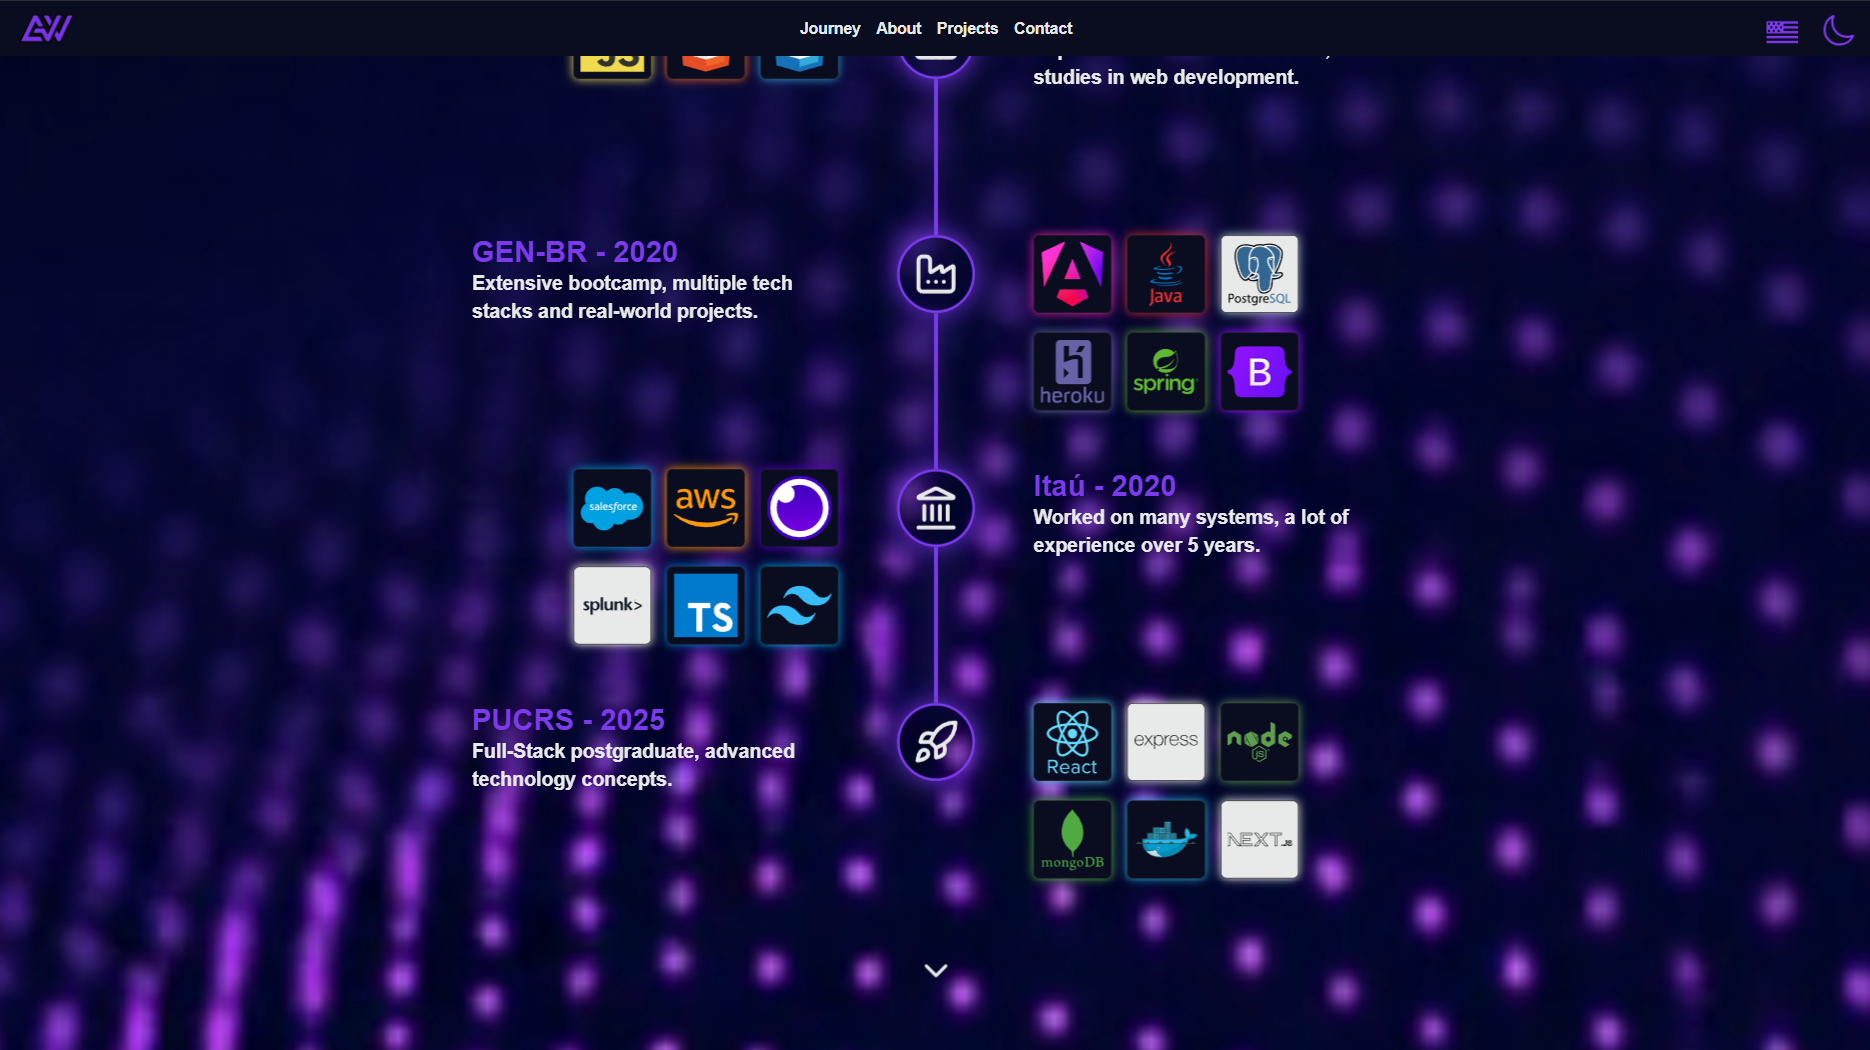
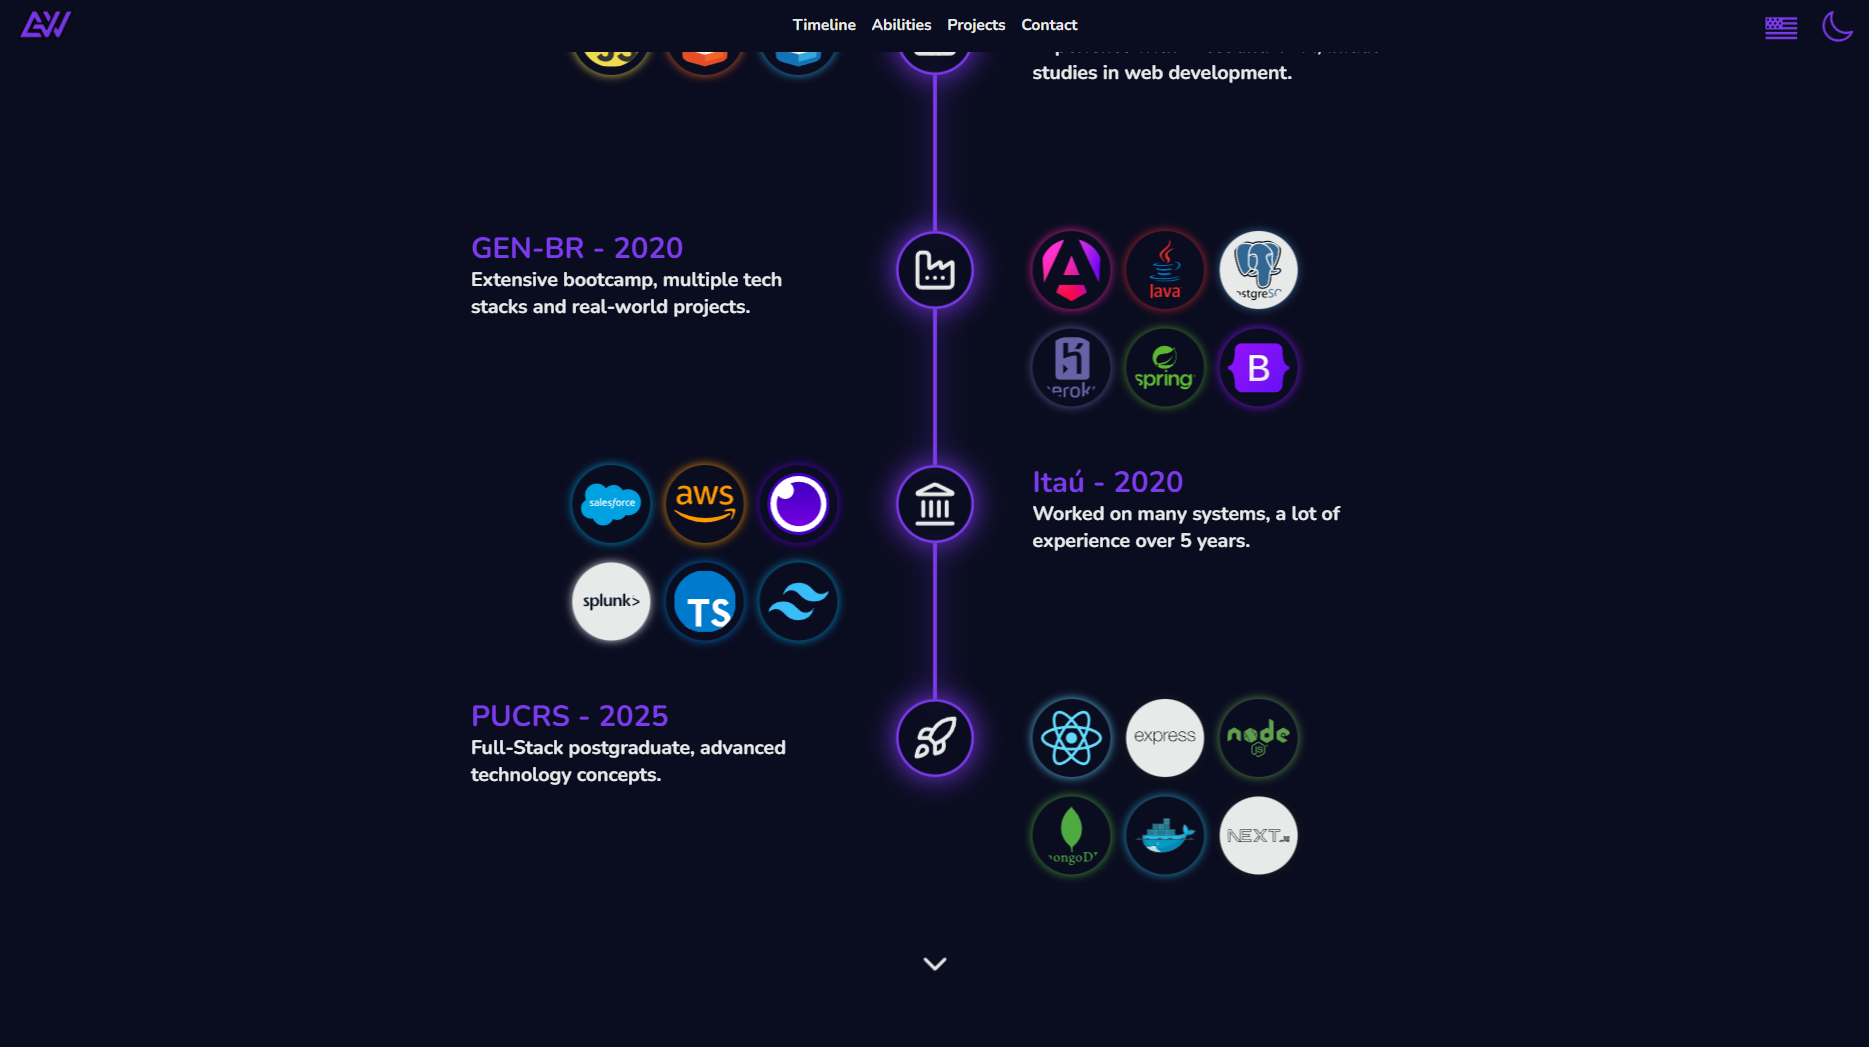
new port project imgs

diff --git a/src/components/Project/Project.tsx b/src/components/Project/Project.tsx
@@ -688,7 +688,7 @@ export default function Projects() {
 
               {/* Main image */}
               <div
-                className=" border-yellow-500 scale absolute bottom-10 mb-10 h-[75svh] w-[77dvw] sm:h-[78svh] sm:w-[420px] sm:text-text rounded-3xl bg-cover bg-top shadow-[0_0_40px_#7C3AED] white:shadow-[0_0_20px_#6594fc] cursor-pointer"
+                className="border-yellow-500 scale absolute bottom-10 mb-10 h-[77svh] w-[77dvw] sm:h-[78svh] sm:w-[420px] sm:text-text rounded-3xl bg-cover bg-top shadow-[0_0_40px_#7C3AED] white:shadow-[0_0_20px_#6594fc] cursor-pointer"
                 style={{ backgroundImage: `url(${s.images.mobile[0]})` }}>
 
                 <div className="absolute border-black bottom-0 left-0 w-full rounded-b-2xl h-[100svh] bg-[linear-gradient(to_top,#111_27%,transparent_60%)] sm:bg-[linear-gradient(to_top,#111_27%,transparent_60%)]">
@@ -808,7 +808,7 @@ export default function Projects() {
         data-aos="fade-right"
         data-aos-offset="0"
         onClick={prev}
-        className="absolute top-1/2 -translate-y- left-6 sm:left-30 sm:text-4xl bg-white/30 w-10 h-10 sm:w-25 sm:h-25 border border-text white:border-dark-gray rounded-full flex justify-center items-center cursor-pointer"
+        className="absolute top-1/2 -translate-y- left-2 sm:left-30 sm:text-4xl bg-white/30 w-15 h-15 sm:w-25 sm:h-25 border border-text white:border-dark-gray rounded-full flex justify-center items-center cursor-pointer"
       >
         ‹
       </button>
@@ -816,7 +816,7 @@ export default function Projects() {
         data-aos="fade-left"
         data-aos-offset="0"
         onClick={next}
-        className="absolute top-1/2 -translate-y- right-2 sm:right-30 sm:text-4xl bg-white/30 w-10 h-10 sm:w-25 sm:h-25 border border-text white:border-dark-gray rounded-full flex justify-center items-center cursor-pointer"
+        className="absolute top-1/2 -translate-y- right-2 sm:right-30 sm:text-4xl bg-white/30 w-15 h-15 sm:w-25 sm:h-25 border border-text white:border-dark-gray rounded-full flex justify-center items-center cursor-pointer"
       >
         ›
       </button>
@@ -838,7 +838,7 @@ export default function Projects() {
       {showModal && (
         <div className="flex sm:hidden absolute inset-0 items-center justify-center z-9999">
           <div
-            className="absolute inset-0 bg-black/70 backdrop-blur-md animate-fadeIn"
+            className="absolute inset-0 bg-black/10 backdrop-blur-md animate-fadeIn"
             onClick={() => setShowModal(false)}
           />
 
@@ -867,14 +867,14 @@ export default function Projects() {
               <>
                 <button
                   onClick={prevModal}
-                  className="absolute left-[-30px] sm:left-[-70px] top-1/2 -translate-y-1/2 bg-white/30 w-10 h-10 sm:w-15 sm:h-15 rounded-full border border-text white:border-text-dark flex justify-center items-center z-100 cursor-pointer"
+                  className="absolute left-[-40px] sm:left-[-70px] top-1/2 -translate-y-1/2 bg-white/30 w-15 h-15 sm:w-15 sm:h-15 rounded-full border border-text white:border-text-dark flex justify-center items-center z-100 cursor-pointer"
                 >
                   ‹
                 </button>
 
                 <button
                   onClick={nextModal}
-                  className="absolute right-[-30px] sm:right-[-70px] top-1/2 -translate-y-1/2 bg-white/30 w-10 h-10 sm:w-15 sm:h-15 rounded-full border border-text white:border-text-dark flex justify-center items-center z-100 cursor-pointer"
+                  className="absolute right-[-40px] sm:right-[-70px] top-1/2 -translate-y-1/2 bg-white/30 w-15 h-15 sm:w-15 sm:h-15 rounded-full border border-text white:border-text-dark flex justify-center items-center z-100 cursor-pointer"
                 >
                   ›
                 </button>
@@ -891,7 +891,7 @@ export default function Projects() {
       {showModal && (
         <div className="hidden sm:flex  absolute inset-0 items-center justify-center z-9999">
           <div
-            className="absolute border-yellow-300 inset-0 bg-black/70 backdrop-blur-md animate-fadeIn"
+            className="absolute border-yellow-300 inset-0 bg-black/10 backdrop-blur-md animate-fadeIn"
             onClick={() => setShowModal(false)}
           />
 
@@ -944,7 +944,7 @@ export default function Projects() {
       {showModalDetails2 && (
         <div className="absolute inset-0 flex items-center justify-center z-9999">
           <div
-            className="absolute inset-0 bg-black/70 backdrop-blur-md animate-fadeIn"
+            className="absolute inset-0 bg-black/10 backdrop-blur-md animate-fadeIn"
             onClick={() => setShowModalDetails2(false)}
           />
           <div className="border-blue-500 relative rounded-3xl text-sm max-h-[80svh] w-[77dvw] sm:w-[460px] bg-background white:bg-text flex flex-col items-center justify-start px-8 py-10 animate-zoomIn ">
@@ -999,7 +999,7 @@ export default function Projects() {
           <div className="absolute border-red-500 inset-0 flex items-center justify-center z-9999">
 
             <div
-              className="absolute inset-0 bg-black/70 backdrop-blur-md animate-fadeIn"
+              className="absolute inset-0 bg-black/10 backdrop-blur-md animate-fadeIn"
               onClick={() => setShowModalImportant(false)}
             />
 

diff --git a/src/components/Abilites/Abilites.tsx b/src/components/Abilites/Abilites.tsx
@@ -137,11 +137,11 @@ function Abilites() {
               </div>
               <p className="">{t("abilities.tools.text")}</p>
               <ul className="font-bold list-disc ml-6">
-                <li className="mb-2">{t("abilities.tools.item1")} <span className="rounded-full px-2  text-[12px] sm:text-[18px]  bg-[#00a1e0]">react</span>  <span className="rounded-full px-2  text-[12px] sm:text-[18px]   bg-red-700">angular</span>  <span className="bg-blue-700 rounded-full px-2  text-[12px] sm:text-[18px]   ">lwc</span></li>
-                <li className="mb-2">{t("abilities.tools.item2")} <span className="bg-green-500 rounded-full px-2  text-[12px] sm:text-[18px]   ">node</span>  <span className="bg-red-700 rounded-full px-2  text-[12px] sm:text-[18px]   ">java</span>  <span className="bg-blue-500 rounded-full px-2  text-[12px] sm:text-[18px]   ">apex</span></li>
-                <li className="mb-2">{t("abilities.tools.item3")} <span className="bg-green-500 rounded-full px-2  text-[12px] sm:text-[18px]   ">mongo</span>  <span className="bg-blue-400 rounded-full px-2  text-[12px] sm:text-[18px]   ">postgre</span>  <span className="bg-blue-500  rounded-full px-2  text-[12px] sm:text-[18px]   ">soql</span></li>
-                <li className="mb-2">{t("abilities.tools.item4")} <span className="bg-gray-700  rounded-full px-2  text-[12px] sm:text-[18px]   ">github</span>  <span className="bg-gray-900  rounded-full px-2  text-[12px] sm:text-[18px]   ">vercel</span>  <span className="bg-green-400  rounded-full px-2  text-[12px] sm:text-[18px]   ">netlify</span></li>
-                <li className="">{t("abilities.tools.item5")} <span className="bg-orange-500  rounded-full px-2  text-[12px] sm:text-[18px]   ">aws</span>  <span className="bg-blue-700  rounded-full px-2  text-[12px] sm:text-[18px]   ">docker</span>  <span className="bg-purple-700  rounded-full px-2  text-[12px] sm:text-[18px]   ">insomnia</span></li>
+                <li className="mb-2">{t("abilities.tools.item1")} <span className="rounded-full white:text-text px-2  text-[12px] sm:text-[18px]  bg-[#00a1e0]">react</span>  <span className="rounded-full white:text-text px-2  text-[12px] sm:text-[18px]   bg-red-700">angular</span>  <span className="bg-blue-700 rounded-full white:text-text px-2  text-[12px] sm:text-[18px]   ">lwc</span></li>
+                <li className="mb-2">{t("abilities.tools.item2")} <span className="bg-green-500 rounded-full white:text-text px-2  text-[12px] sm:text-[18px]   ">node</span>  <span className="bg-red-700 rounded-full white:text-text px-2  text-[12px] sm:text-[18px]   ">java</span>  <span className="bg-blue-500 rounded-full white:text-text px-2  text-[12px] sm:text-[18px]   ">apex</span></li>
+                <li className="mb-2">{t("abilities.tools.item3")} <span className="bg-green-500 rounded-full white:text-text px-2  text-[12px] sm:text-[18px]   ">mongo</span>  <span className="bg-blue-400 rounded-full white:text-text px-2  text-[12px] sm:text-[18px]   ">postgre</span>  <span className="bg-blue-500  rounded-full white:text-text px-2  text-[12px] sm:text-[18px]   ">soql</span></li>
+                <li className="mb-2">{t("abilities.tools.item4")} <span className="bg-gray-700  rounded-full white:text-text px-2  text-[12px] sm:text-[18px]   ">github</span>  <span className="bg-gray-900  rounded-full white:text-text px-2  text-[12px] sm:text-[18px]   ">vercel</span>  <span className="bg-green-400  rounded-full white:text-text px-2  text-[12px] sm:text-[18px]   ">netlify</span></li>
+                <li className="">{t("abilities.tools.item5")} <span className="bg-orange-500  rounded-full white:text-text px-2  text-[12px] sm:text-[18px]   ">aws</span>  <span className="bg-blue-700  rounded-full white:text-text px-2  text-[12px] sm:text-[18px]   ">docker</span>  <span className="bg-purple-700  rounded-full white:text-text px-2  text-[12px] sm:text-[18px]   ">insomnia</span></li>
               </ul>
             </div>
 

diff --git a/src/components/Home/Home.tsx b/src/components/Home/Home.tsx
@@ -138,7 +138,7 @@ function Hero({ theme }: HeroProps) {
               data-aos="fade-in" data-aos-duration="3000" data-aos-offset="-500" data-aos-delay="0">
 
 
-              {/* TEXT DESKTOP AND MOBILE*/}
+              {/* WELCOME DESKTOP AND MOBILE*/}
               <div className='relative sm:ml-15 sm:mt-15 flex flex-col items-start justify-start '>
                 <h1 data-aos="fade-in" data-aos-duration="3000" data-aos-delay="0" className="text-2xl sm:text-4xl mt-15 sm:mt-0">{t("home.welcome")}</h1>
                 {/* MY SIGNATURE*/}
@@ -228,7 +228,7 @@ function Hero({ theme }: HeroProps) {
 
             </div> */}
 
-            {/*3 FRASES DESKTOP  */}
+            {/*3 FRASES MOBILE  */}
             <div className='sm:hidden text-sm mt-5 w-80 ml-10 '>
 
               <div data-aos="fade-left" data-aos-duration="2000" data-aos-delay="800" className='flex items-center justify-start mb-3 border-accent'>
@@ -280,7 +280,7 @@ function Hero({ theme }: HeroProps) {
             <div className="card-home flex absolute bottom-0 left-[-45px] sm:hidden ">
               <div data-aos="fade-in" data-aos-duration="2000" data-aos-offset="0" data-aos-delay="2000" className="flex w-110 sm:w-190 h-70 sm:h-120 clip-hex justify-end items-center">
                 <img data-aos="fade-right" data-aos-duration="2000" data-aos-offset="-500" data-aos-delay="2800" className="absolute rounded-3xl bottom-0 left-10 w-90 sm:w-150" src={bg} />
-                <div className='absolute top-0 right-0 w-90 h-full bg-[linear-gradient(to_left,#381f70_25%,transparent_70%)] white:bg-[linear-gradient(to_left,#162c9c_35%,transparent_80%)] z-200 '>
+                <div className='absolute top-0 right-0 w-90 h-full bg-[linear-gradient(to_left,#381f70_25%,transparent_70%)] white:bg-[linear-gradient(to_left,#243fc7_35%,transparent_80%)] z-200 '>
                   <h5 data-aos="zoom-in" data-aos-duration="2000" data-aos-offset="0" data-aos-delay="2800" className="absolute top-8 sm:top-25 left-50 border-blue-500 text-sm sm:text-3xl sm:w-80 white:text-text w-33">
                     {t("home.text")}</h5>
                   <div className='absolute top-20 left-50 text-xs white:text-text'

diff --git a/src/components/Journey/Journey.tsx b/src/components/Journey/Journey.tsx
@@ -105,14 +105,14 @@ function Journey() {
                         </div>
                         <div className='w-50 h-40 sm:h-60 border-orange-500 flex flex-col justify-start items-center'>
                             <div data-aos="fade-up" className='h-9 w-9 sm:h-20 sm:w-20 border-3 border-accent hover:bg-accent white:hover:bg-light-blue  transition duration-300 ease-in-out white:border-light-blue shadow-[0_0_30px_#7C3AED] white:shadow-[0_0_30px_#6594fc] rounded-full flex justify-center items-center'>
-                                <University className='sm:h-12 sm:w-12' />
+                                <Factory className='sm:h-12 sm:w-12' />
                             </div>
                             <div data-aos="fade-up" className='w-1 h-31 sm:h-40 bg-accent white:bg-light-blue shadow-[0_0_30px_#7C3AED] white:shadow-[0_0_30px_#6594fc] transition'>
                             </div>
                         </div>
                         <div className='w-50 h-40 sm:h-60 border-orange-500 flex flex-col justify-start items-center'>
                             <div data-aos="fade-up" className='h-9 w-9 sm:h-20 sm:w-20 border-3 border-accent hover:bg-accent white:hover:bg-light-blue  transition duration-300 ease-in-out white:border-light-blue shadow-[0_0_30px_#7C3AED] white:shadow-[0_0_30px_#6594fc] rounded-full flex justify-center items-center'>
-                                <Factory className='sm:h-12 sm:w-12' />
+                                <University className='sm:h-12 sm:w-12' />
                             </div>
                             <div data-aos="fade-up" className='w-1 h-31 sm:h-40 bg-accent white:bg-light-blue shadow-[0_0_30px_#7C3AED] white:shadow-[0_0_30px_#6594fc] transition'>
                             </div>

diff --git a/src/components/Project/Project.css b/src/components/Project/Project.css
@@ -1,10 +1,11 @@
-
-
 .trapezoid {
-  width: 0;              /* top width */
-  height: 600px;                 
-  border-bottom: 80px solid transparent;  /* height + color */
-  border-top: 80px solid transparent;  /* height + color */
+  width: 0;
+  /* top width */
+  height: 600px;
+  border-bottom: 80px solid transparent;
+  /* height + color */
+  border-top: 80px solid transparent;
+  /* height + color */
   border-right: 150px solid white;
 }
 
@@ -13,9 +14,11 @@
 }
 
 .card {
+  transform: perspective(400px) rotateY(0deg);
+
+}
+
+.card:hover {
   transform: perspective(400px) rotatey(-12deg);
   transition: 0.3s ease;
-}
-.card:hover {
-  transform: perspective(400px) rotateY(0deg);
 }

diff --git a/src/index.css b/src/index.css
@@ -17,10 +17,12 @@
   --color-surface: #1A1625;
   --color-accent: #7C3AED;
   --color-text: #e8e9e9;
+  /* --color-text: #c7ccd4; */
   --color-text-muted: #A3A3B3;
 
   /* WHITE */
-  --color-white-bg: #ebecf0;
+  --color-white-bg: #e8e9e9;
+  /* --color-white-bg: #ebecf0; */
   --color-dark-gray: #1f1f1f;
   --color-light-blue: #415ff5;
   --color-text-dark: #1f1f1f;

diff --git a/src/App.tsx b/src/App.tsx
@@ -67,6 +67,7 @@ function App() {
         }
 
       </div>
+
       <div className='p-1 w-fit h-fit p-sm rounded-full fixed top-1 right-11 sm:right-16  z-50'>
 
         {language === '' &&
